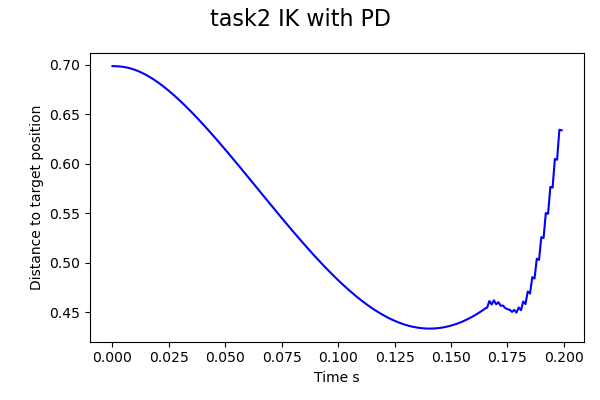
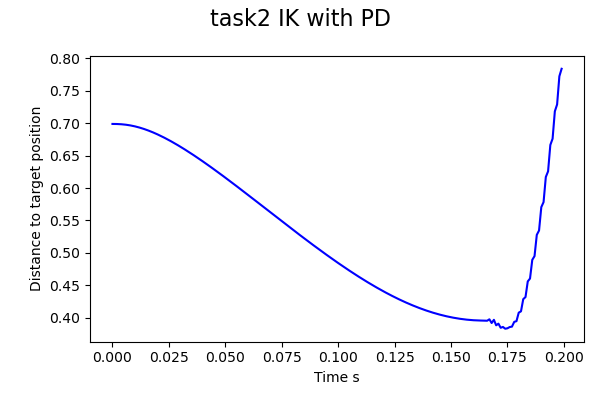
task 1 done, time to tune task2

diff --git a/task2/task2.py b/task2/task2.py
@@ -60,8 +60,8 @@ task2_savefig = False
 
 pltTime, pltEFPosition = sim.move_with_PD(task2_jointName, task2_targetPosition, speed=0.01, orientation=None, threshold=1e-3, maxIter=200, debug=False, verbose=False)
 
-task1_figure_name = "task2_kinematics.png"
-task1_savefig = True
+#task1_figure_name = "task2_kinematics.png"
+#task1_savefig = True
 # ...
 #fig = plt.figure(figsize=(6, 4))
 
@@ -87,7 +87,6 @@ pltTime, pltTarget, pltTorque, pltTorqueTime, pltPosition, pltVelocity = \
 fig = plt.figure(figsize=(6, 8))
 
 plt.subplot(311)
-plt.ylim(task2_targetPosition-0.035,task2_targetPosition+0.035)
 plt.plot(pltTime, pltPosition, color='blue')
 plt.plot(pltTime, pltTarget, color='magenta')
 plt.ylabel("Theta rads")

diff --git a/core/Pybullet_Simulation.py b/core/Pybullet_Simulation.py
@@ -352,11 +352,13 @@ class Simulation(Simulation_base):
 
         pltTime, pltTarget, pltTorque, pltTorqueTime, pltPosition, pltVelocity = [], [], [], [], [], []
 
-        for n in range(0,3000):
+        n=0
+        while n < 3000:
             torque = toy_tick(targetPosition, self.getJointPos(joint), targetVelocity, self.getJointVel(joint),0)
             pltTorque.append(torque); pltTorqueTime.append(self.dt*n)
             pltTime.append(self.dt*n); pltTarget.append(targetPosition)
             pltPosition.append(self.getJointPos(joint)); pltVelocity.append(self.getJointVel(joint))
+            n += 1
 
         return pltTime, pltTarget, pltTorque, pltTorqueTime, pltPosition, pltVelocity
 
